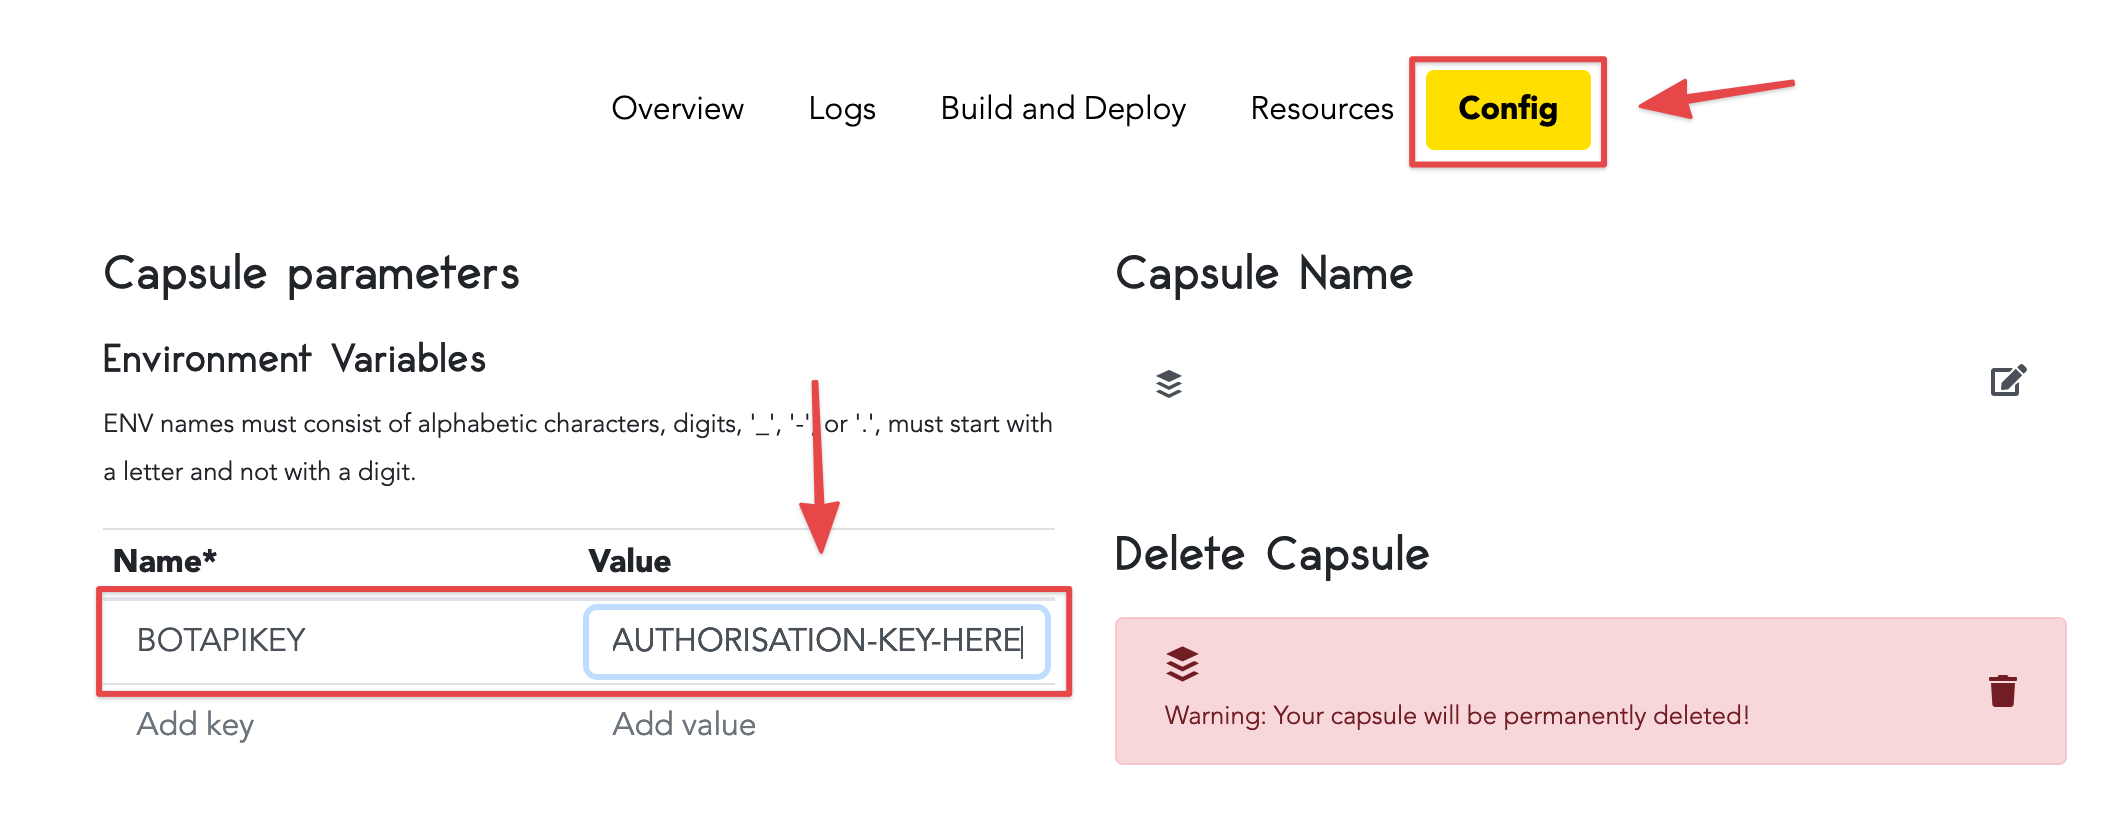
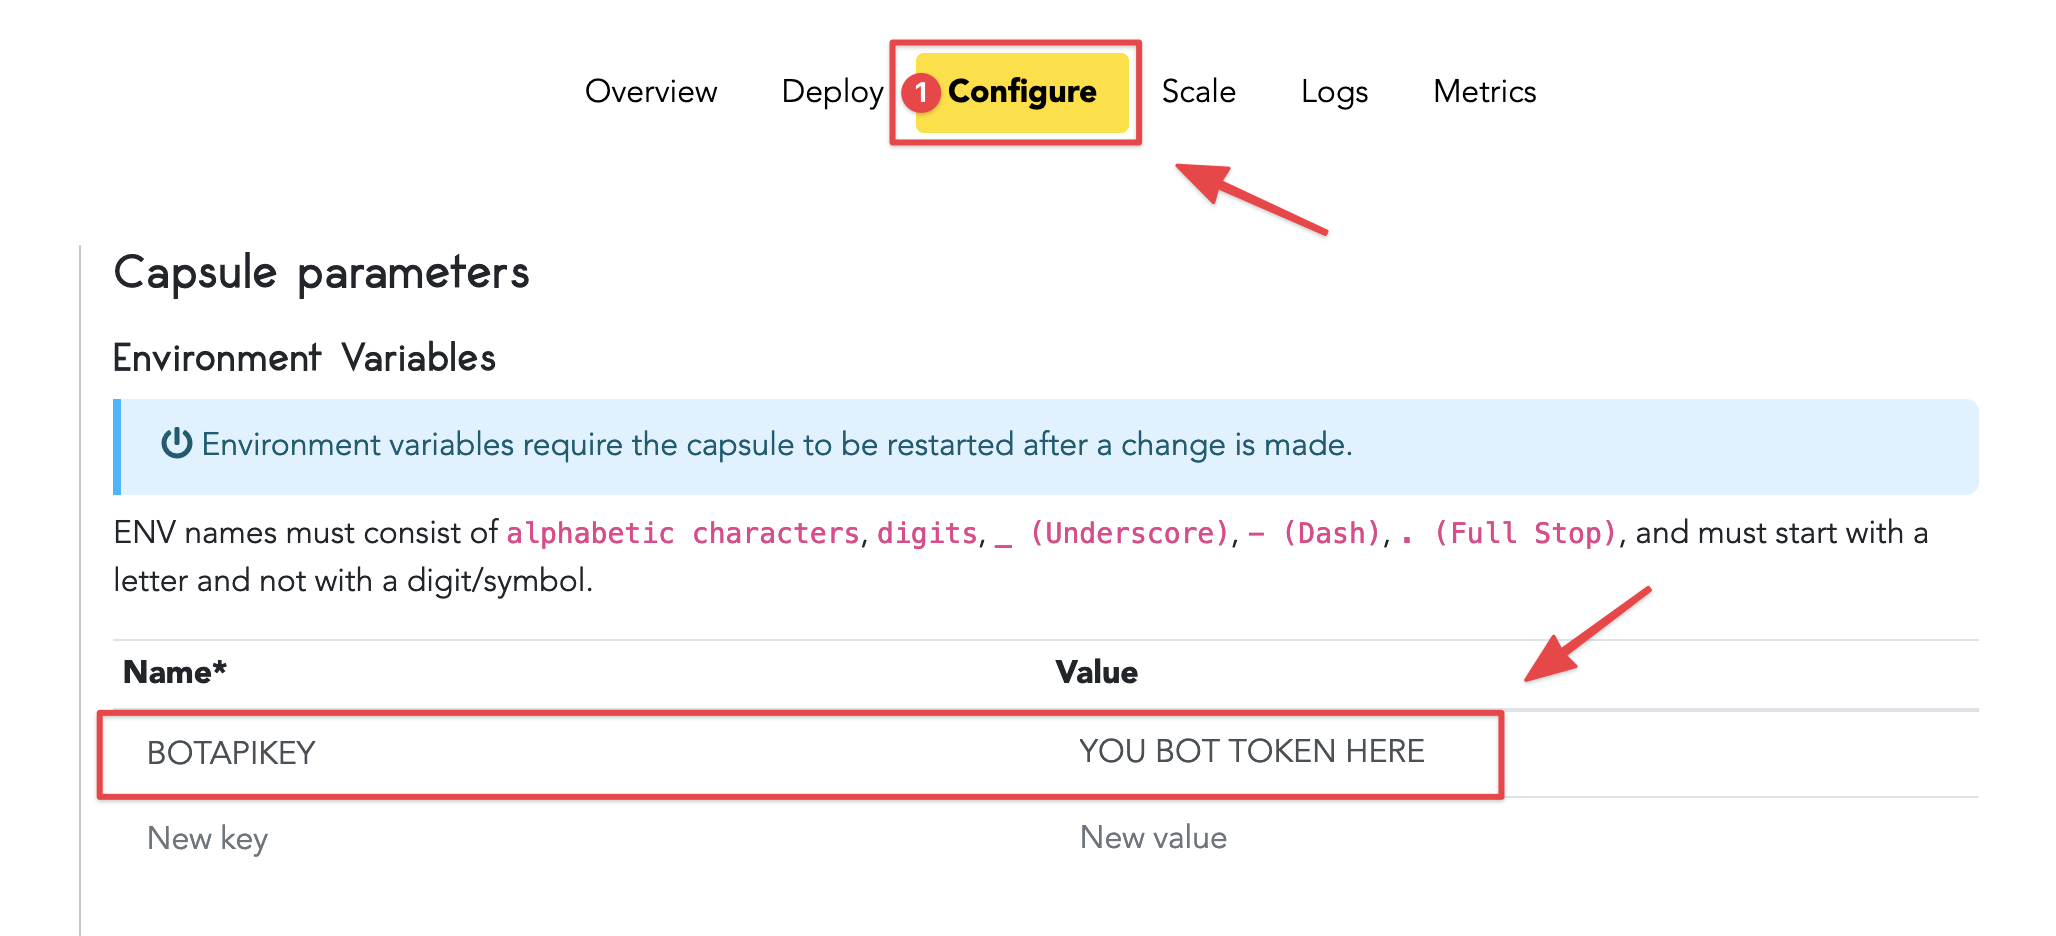
fix telegram bot tutorial

diff --git a/docs/tutorials/create-and-host-telegram-bot.md b/docs/tutorials/create-and-host-telegram-bot.md
@@ -67,7 +67,7 @@ The virtual environment will help manage our dependencies for when we host the b
 
 To interact with the Telegram Bot API, we need to install the [python-telegram-bot](https://github.com/python-telegram-bot/python-telegram-bot) library, a Python wrapper for the [Telegram Bot API](https://core.telegram.org/bots/api). We'll also use the Python library `requests` to retrieve data from the weather and currency exchange rate API. To install these requirements, enter the following in your terminal:
 
-```
+```bash
 pip install python-telegram-bot requests
 ```
 
@@ -249,17 +249,17 @@ We'll set up a webhook by telling Telegram to send commands sent to our bot acco
 To set up the webhook, replace the line `updater.start_polling()` in the `main` function with the code below:
 
 ```python
-    PORT = int(os.environ.get('PORT','8443'))
-    updater.start_webhook(listen='0.0.0.0', port=PORT, url_path=TOKEN)
-    updater.bot.setWebhook('YOUR-CODECAPSULES-URL-HERE' + "/" + TOKEN)
+    PORT = int(os.environ.get('PORT', '443'))
+    HOOK_URL = 'YOUR-CODECAPSULES-URL-HERE' + '/' + TOKEN
+    updater.start_webhook(listen='0.0.0.0', port=PORT, url_path=TOKEN, webhook_url=HOOK_URL)
     updater.idle()
 
 ```
 
-Here we start a webhook that will listen on our Code Capsules URL at TCP port 8443 and with the path of our token. Thus, Telegram will relay commands sent to our bot to the following URL:
+Here we start a webhook that will listen on our Code Capsules URL at TCP port 443 and with the path of our token. Thus, Telegram will relay commands sent to our bot to the following URL:
 
 ```
-https://YOUR-CODECAPSULES-SUBDOMAIN.codecapsules.io:8443/TOKEN
+https://YOUR-CODECAPSULES-SUBDOMAIN.codecapsules.io:443/TOKEN
 ```
 
 If you've completed some of our other backend tutorials, you will be familiar with setting up web servers that receive `GET` and `POST` requests to different routes. You can think of a webhook as a very simple HTTP server that is intended to be used by bots and automated services rather than humans.
@@ -296,7 +296,7 @@ To create the `Procfile`:
 
 1. Navigate to the directory containing the `bot.py` file and enter the virtual environment.
 2. Create a file named `Procfile` (with no file extension).
-3. Open `Procfile`, enter `web: python3 app.py`, and save the file.
+3. Open `Procfile`, enter `web: python3 bot.py`, and save the file.
 
 In the same directory, open a terminal and activate the virtual environment. Then enter `pip3 freeze > requirements.txt` to generate a list of requirements for our Code Capsules server.
 
@@ -318,7 +318,7 @@ We haven't supplied our webhook a URL yet, and we still need to create an enviro
 
 1. Navigate to your Capsule.
 2. Click the "Config" tab.
-3. Add an environment variable with the name "BOTAPIKEY" and give it your bot's API key as a value. Make sure to hit the update button after adding the variable.
+3. Add an environment variable with the name "BOTAPIKEY" and give it your bot's API key as a value. Make sure to hit the "Update Capsule" button after adding the variable.
 
 ![env-var](../assets/tutorials/create-and-host-telegram-bot/env_var.png)
 
@@ -326,7 +326,7 @@ Next, let's supply our webhook with the correct domain.
 
 1. Navigate to the "Overview" tab.
 2. Copy the domain found under "Domains".
-3. Open the `bot.py` file and find the line `updater.bot.setWebhook('YOUR-CODECAPSULES-URL HERE'+TOKEN)`.
+3. Open the `bot.py` file and find the line `HOOK_URL = 'YOUR-CODECAPSULES-URL-HERE' + '/' + TOKEN`.
 4. Replace "YOUR-CODECAPSULES_URL" with the domain just copied.
 5. Commit and push these changes to GitHub.
 
